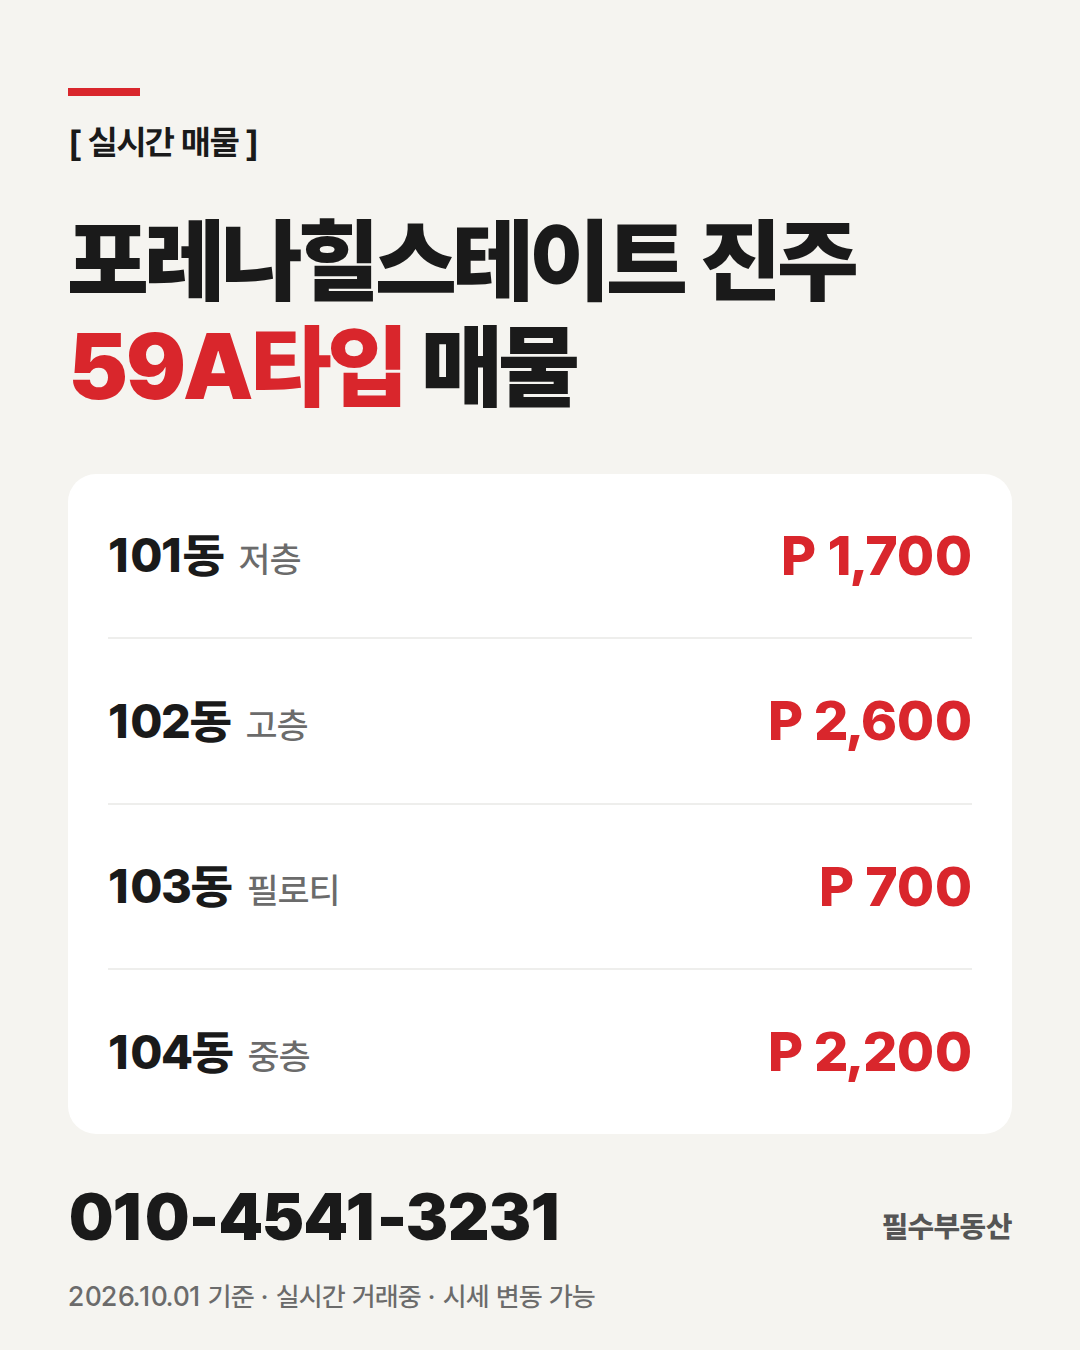
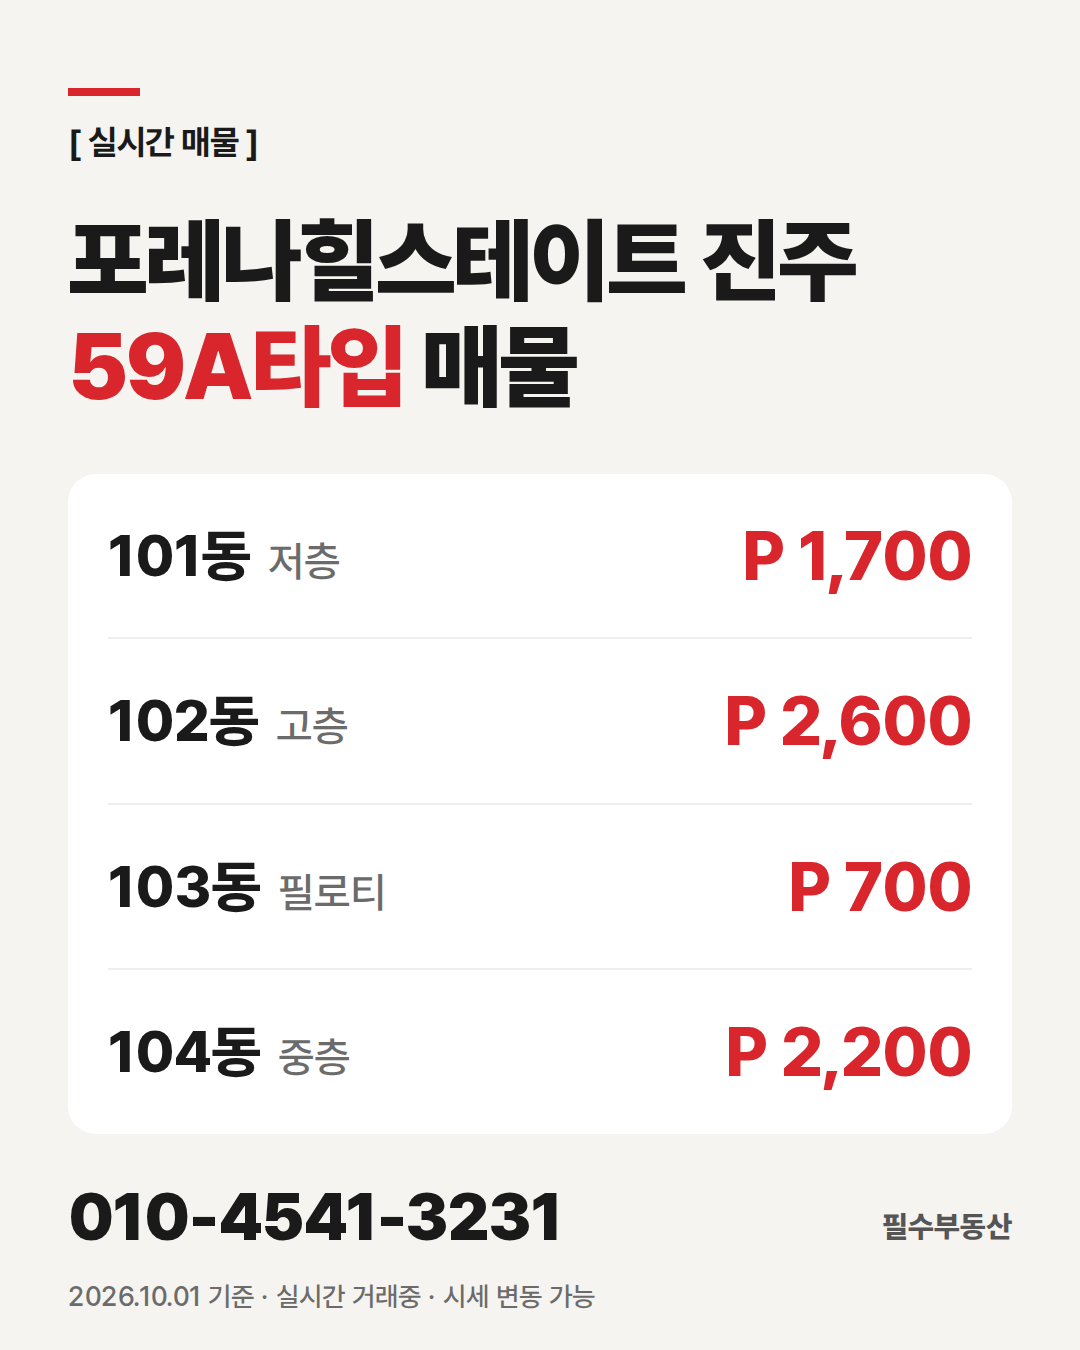
Enlarge listing row fonts for readability (#3)
Claude-Session: https://claude.ai/code/session_01KApt9Hz1q1NEUE7imGm8HM

diff --git a/card/template.html b/card/template.html
@@ -21,9 +21,9 @@
   .row { flex: 1; display: flex; align-items: center; justify-content: space-between;
          border-bottom: 2px solid var(--line); }
   .row:last-child { border-bottom: none; }
-  .dong { font-size: 48px; font-weight: 800; letter-spacing: -1px; }
-  .floor { font-size: 36px; font-weight: 500; color: var(--gray); margin-left: 16px; }
-  .price { font-size: 56px; font-weight: 800; color: var(--red); letter-spacing: -1px; }
+  .dong { font-size: 58px; font-weight: 800; letter-spacing: -1px; }
+  .floor { font-size: 42px; font-weight: 500; color: var(--gray); margin-left: 18px; }
+  .price { font-size: 68px; font-weight: 800; color: var(--red); letter-spacing: -1px; }
   .foot { display: flex; justify-content: space-between; align-items: flex-end; margin-top: 50px; }
   .phone { font-size: 66px; font-weight: 900; letter-spacing: -1px; line-height: 1; }
   .agency { font-size: 30px; font-weight: 800; color: #555; padding-bottom: 6px; }
